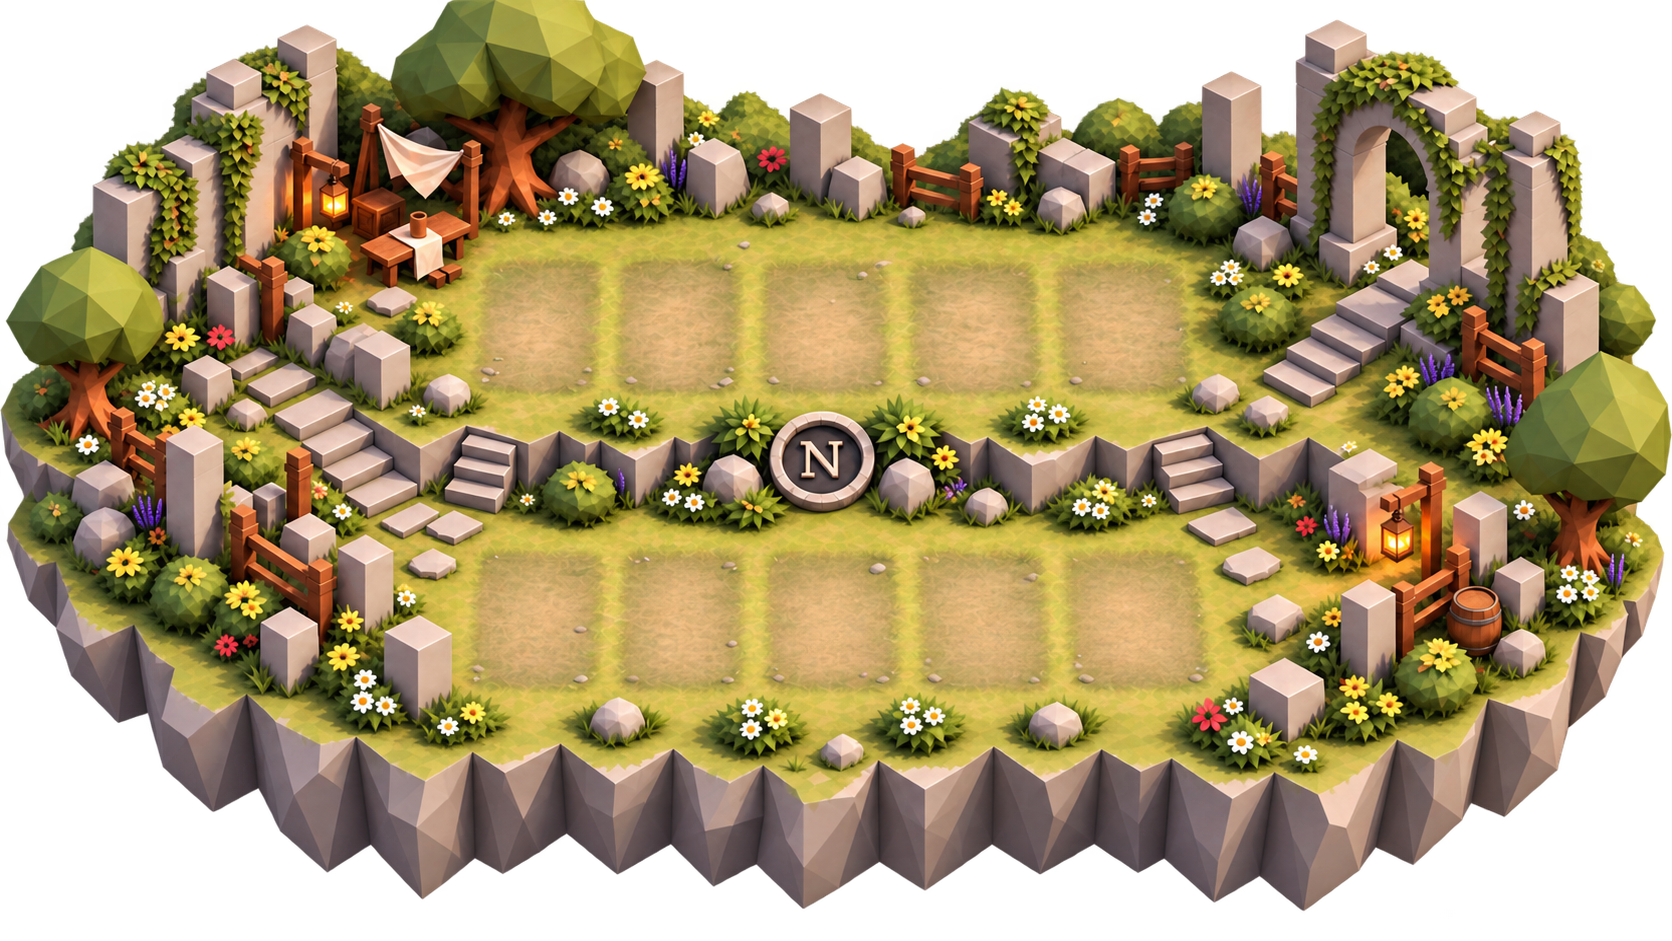
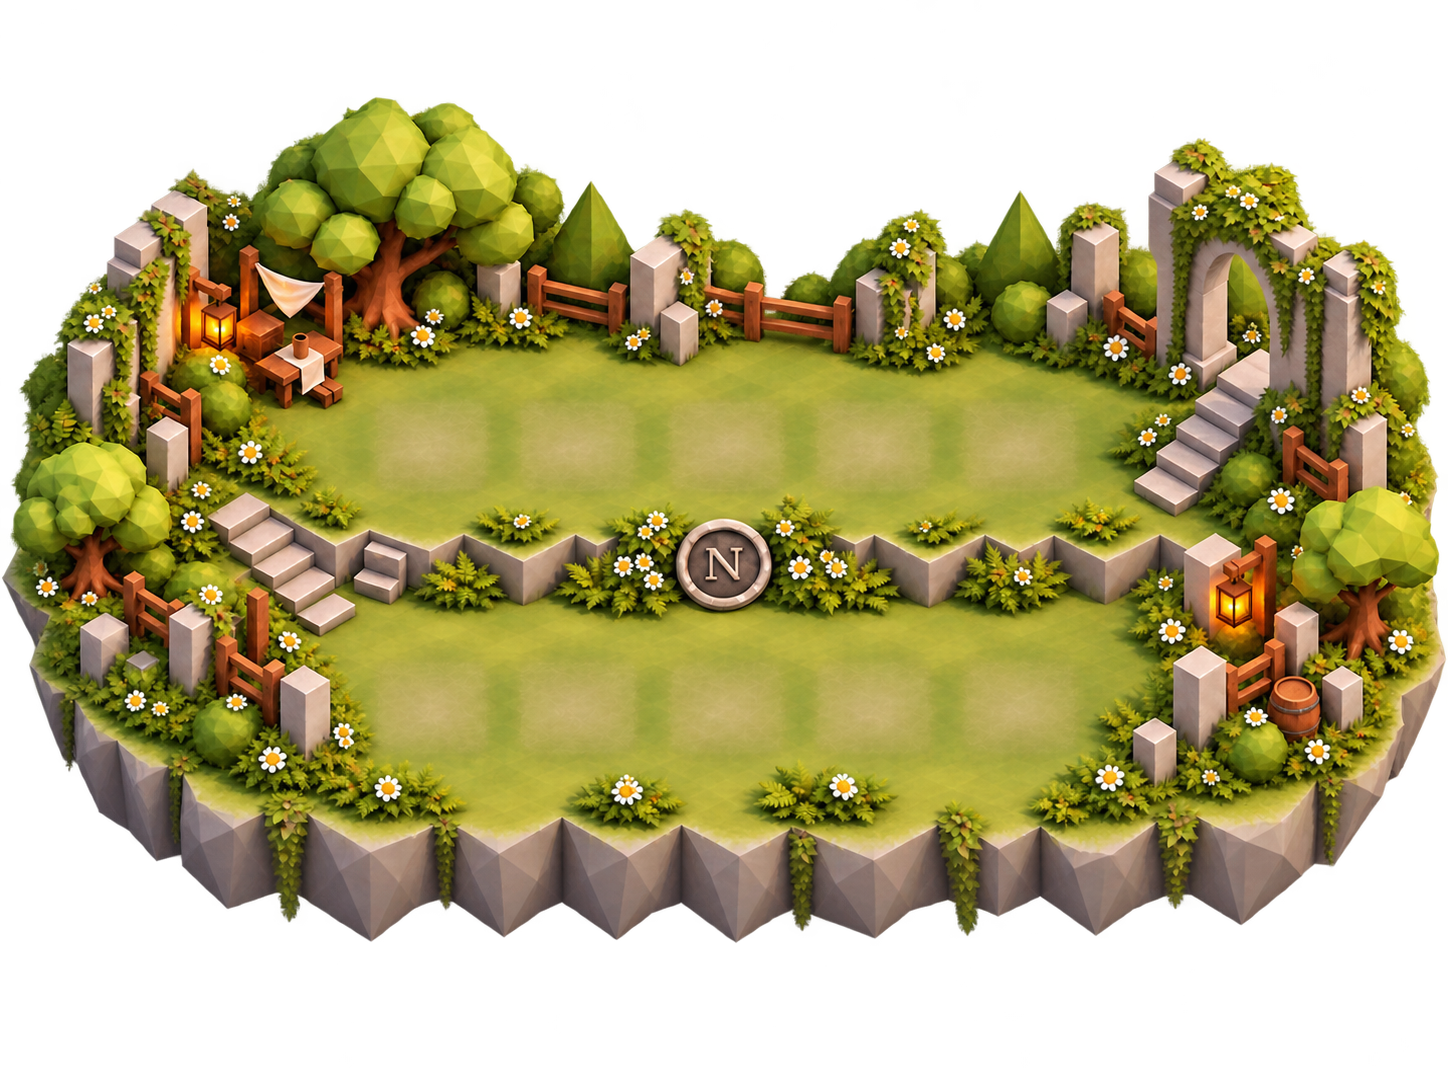
Description des modifications

diff --git a/CSS/jeu-cartes.css b/CSS/jeu-cartes.css
@@ -2054,7 +2054,7 @@ body.en-duel { overflow: hidden; padding: 0 !important; }
 
 /* =====================================================================
    Le plateau de Nocthémar : une île flottante (fond transparent), qui change avec la SAISON RÉELLE
-   (img/Plateaux de carte/plateau-automne|hiver|printemps|ete.webp, 1672 × 941, disposition voisine).
+   (img/Plateaux de carte/plateau-automne|hiver|printemps|ete.webp, 1448 × 910, disposition voisine).
    Le plateau est posé sur <body> par JS/jeu-cartes.js (classe plateau-…) : celui choisi par le joueur
    (acheté en boutique, SQL/plateaux.sql), sinon celui de la saison réelle ; ?saison=hiver le force.
    Tout y est placé en % de l'image (cqw = % de la largeur du plateau), mesuré au pixel :
@@ -2066,7 +2066,7 @@ body.en-duel { overflow: hidden; padding: 0 !important; }
    ===================================================================== */
 .page-jeu .tg-bord {
   container-type: inline-size;
-  aspect-ratio: 1672 / 941;
+  aspect-ratio: 1448 / 910;
   padding: 0;
   border-radius: 0;
   background: url("../img/Plateaux%20de%20carte/plateau-automne.webp") center / 100% 100% no-repeat;
@@ -2197,7 +2197,7 @@ body.en-duel { overflow: hidden; padding: 0 !important; }
 /* =====================================================================
    Disposition du duel sur ordinateur : un grand plateau au milieu
    - le plateau prend toute la place libre (largeur moins les boutons à droite,
-     hauteur moins la barre de l'adversaire et la main), en gardant sa forme 1672 / 941
+     hauteur moins la barre de l'adversaire et la main), en gardant sa forme 1448 / 910
    - ton énergie et ton héros : une plaque en bas à gauche de l'écran
    - la main : des cartes plus petites, qui grossissent au survol
    (vient en dernier : ces règles l'emportent)
@@ -2212,7 +2212,7 @@ body.en-duel { overflow: hidden; padding: 0 !important; }
     /* Grand plateau : ses bords transparents (ciel, rochers du dessous) passent sous la barre
        de l'adversaire et sous la main, d'où les marges négatives */
     /* .78 : le plateau un peu plus petit, il laisse de l'air autour */
-    width: min(calc((100vw - 2 * clamp(130px, 9vw, 170px)) * .78), calc((100vh - 2vh) * 1672 / 941 * .78));
+    width: min(calc((100vw - 2 * clamp(130px, 9vw, 170px)) * .78), calc((100vh - 2vh) * 1448 / 910 * .78));
     margin: calc(-8vh + 8px) auto calc(-6vh - 8px);   /* remonté de 8vh, puis redescendu de 8 px (~2 mm) ; même hauteur totale */
   }
   .en-duel .table__plateau { --carte-l-main: min(6.2vw, 11.5vh); }
@@ -2246,7 +2246,8 @@ body.en-duel { overflow: hidden; padding: 0 !important; }
    Troupes posées sur le plateau : la carte d'origine, posée SUR la trace que les cartes ont laissée
    dans le sol (à force d'y être posées), centrée dessus. Avec --zoom-cartes = 1, le cadre de la carte
    (81,9 % de la hauteur de son image) a la hauteur de la trace ; plus grand, la carte déborde de sa trace.
-   Plateaux 1672 × 941 (img/Plateaux de carte/), traces mesurées au pixel sur chacun :
+   Plateaux 1448 × 910 (img/Plateaux de carte/, recadrés des originaux 1448 × 1086 : y de 70 à 980),
+   traces mesurées au pixel sur chacun :
    --h-… rangée du haut (l'adversaire), --b-… rangée du bas (toi)
      x / l : gauche et largeur de la rangée (5 colonnes égales, centrées sur les traces)
      y / h : haut et hauteur des traces
@@ -2254,24 +2255,24 @@ body.en-duel { overflow: hidden; padding: 0 !important; }
    --n-x / --n-y : centre du cercle « N » (le dé)
    ===================================================================== */
 .page-jeu .tg-bord {
-  --h-x: 28.63%; --h-l: 42.05%; --h-y: 27.84%; --h-h: 13.60%; --h-u: 6.23cqw;
-  --b-x: 27.39%; --b-l: 44.26%; --b-y: 57.70%; --b-h: 15.94%; --b-u: 7.30cqw;
-  --n-x: 49.64%; --n-y: 49.10%;
+  --h-x: 24.59%; --h-l: 49.72%; --h-y: 36.48%; --h-h: 11.32%; --h-u: 5.79cqw;
+  --b-x: 24.96%; --b-l: 50.31%; --b-y: 63.74%; --b-h: 12.09%; --b-u: 6.18cqw;
+  --n-x: 50.07%; --n-y: 55.16%;
 }
 .page-jeu.plateau-ete .tg-bord {
-  --h-x: 27.86%; --h-l: 43.18%; --h-y: 27.31%; --h-h: 14.88%; --h-u: 6.82cqw;
-  --b-x: 27.17%; --b-l: 44.68%; --b-y: 58.02%; --b-h: 15.73%; --b-u: 7.21cqw;
-  --n-x: 49.34%; --n-y: 49.10%;
+  --h-x: 24.21%; --h-l: 51.21%; --h-y: 34.62%; --h-h: 12.31%; --h-u: 6.30cqw;
+  --b-x: 24.27%; --b-l: 51.10%; --b-y: 63.52%; --b-h: 12.86%; --b-u: 6.58cqw;
+  --n-x: 50.07%; --n-y: 54.40%;
 }
 .page-jeu.plateau-hiver .tg-bord {
-  --h-x: 27.33%; --h-l: 45.16%; --h-y: 27.21%; --h-h: 13.92%; --h-u: 6.38cqw;
-  --b-x: 26.96%; --b-l: 46.17%; --b-y: 57.07%; --b-h: 14.67%; --b-u: 6.72cqw;
-  --n-x: 49.94%; --n-y: 49.42%;
+  --h-x: 25.87%; --h-l: 47.89%; --h-y: 37.58%; --h-h: 11.10%; --h-u: 5.68cqw;
+  --b-x: 25.81%; --b-l: 48.41%; --b-y: 66.04%; --b-h: 11.21%; --b-u: 5.73cqw;
+  --n-x: 50.07%; --n-y: 56.04%;
 }
 .page-jeu.plateau-printemps .tg-bord {
-  --h-x: 27.19%; --h-l: 44.48%; --h-y: 30.39%; --h-h: 14.56%; --h-u: 6.67cqw;
-  --b-x: 27.09%; --b-l: 45.45%; --b-y: 61.85%; --b-h: 15.09%; --b-u: 6.91cqw;
-  --n-x: 49.64%; --n-y: 52.28%;
+  --h-x: 25.31%; --h-l: 49.27%; --h-y: 35.38%; --h-h: 11.32%; --h-u: 5.79cqw;
+  --b-x: 25.55%; --b-l: 48.95%; --b-y: 63.96%; --b-h: 12.75%; --b-u: 6.52cqw;
+  --n-x: 50.07%; --n-y: 54.40%;
 }
 /* --zoom-cartes : les cartes plus grandes que leur trace (1 = cadre de la carte = hauteur de la trace) */
 .page-jeu .tg-bord { --zoom-cartes: 1.02; }
